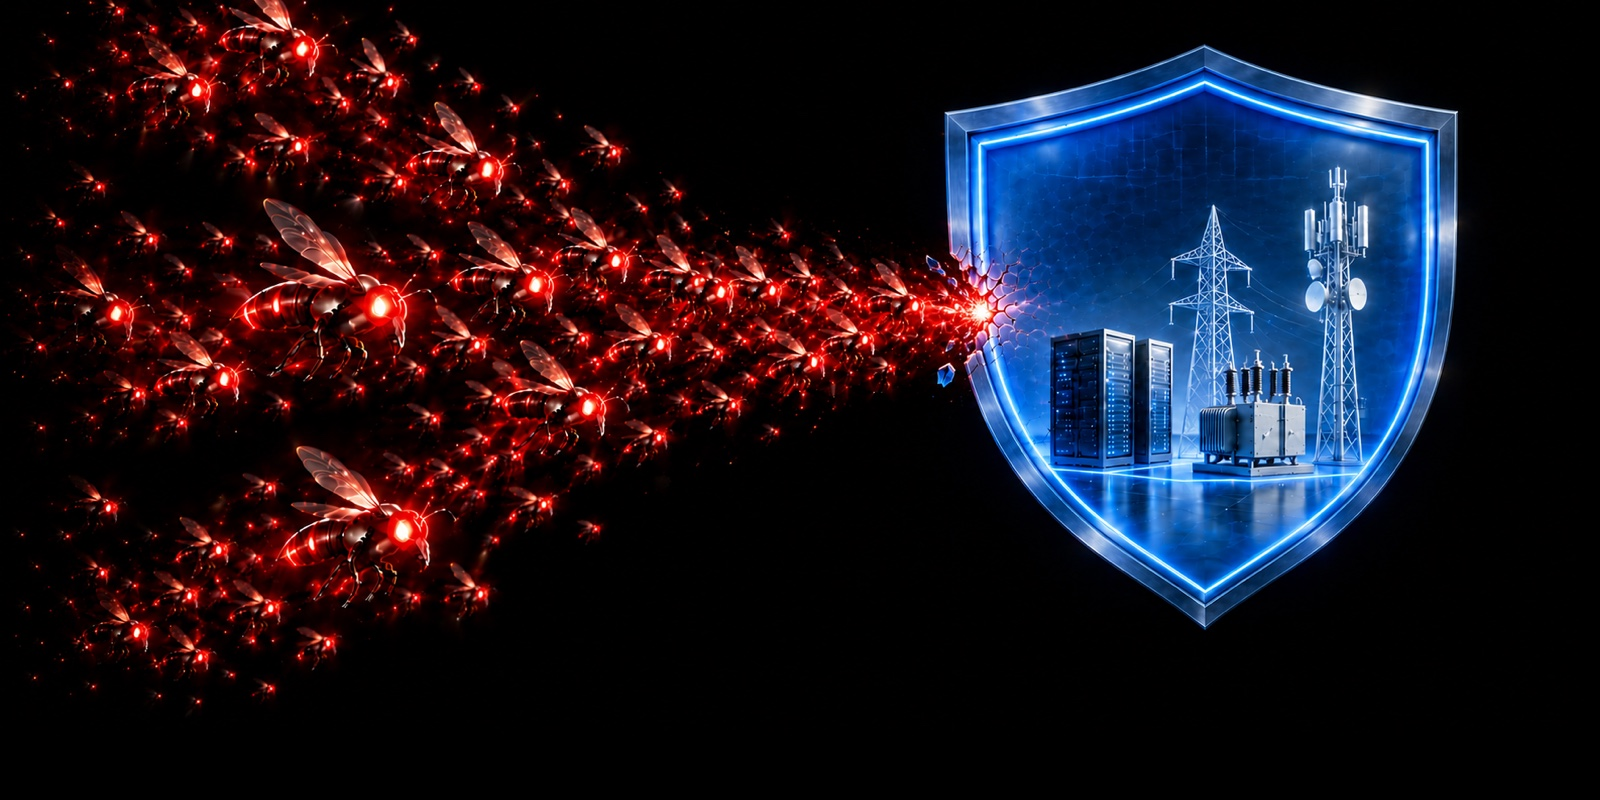
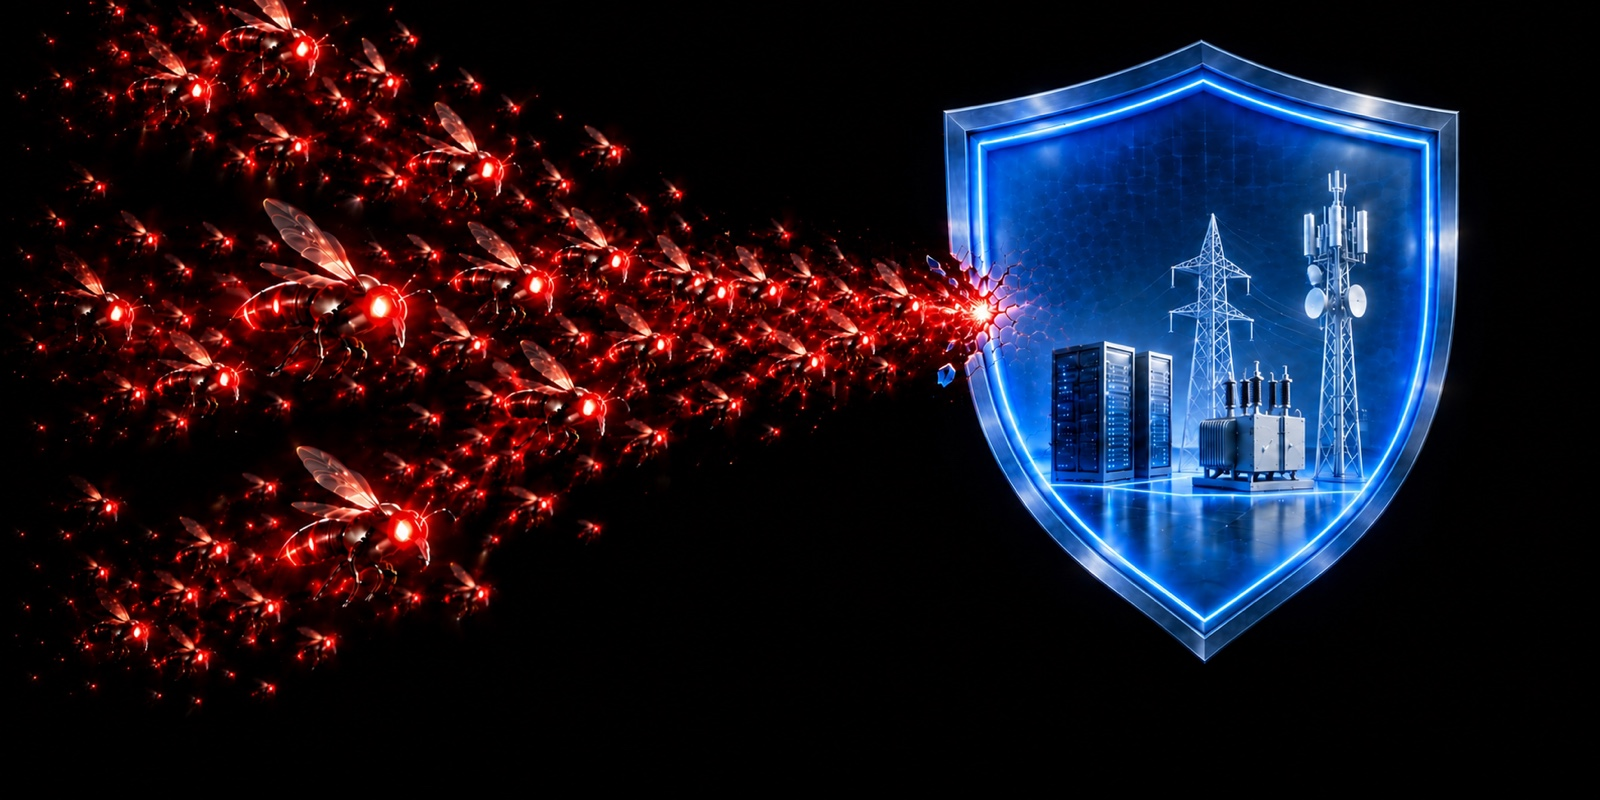
Lighten website and expose full communication logs

diff --git a/static/css/story.css b/static/css/story.css
@@ -7,7 +7,7 @@
 .channel-card > p { margin-top: 12px; color: var(--muted); font-size: 14px; }
 
 /* The observed Engineering campaign, from formation to a shared outcome. */
-.sample-section { background: #07090c; }
+.sample-section { background: #151f2a; }
 .sample-heading { margin-bottom: 28px; }
 .sample-heading > p { color: #9cabb9; font-size: 13px; }
 .sample-brief { display: grid; grid-template-columns: 38px minmax(0, 1fr) auto; align-items: center; gap: 16px; padding: 20px 0; margin-bottom: 30px; border-block: 1px solid #303a44; }
@@ -21,11 +21,11 @@
 .observed-tag { display: inline-flex; flex: none; align-items: center; gap: 7px; color: #b6c5cf; font-size: 10px; letter-spacing: .09em; text-transform: uppercase; }
 .observed-tag i { width: 5px; height: 5px; border-radius: 50%; background: #b5d5bd; box-shadow: 0 0 10px #b5d5bd30; }
 .release-flow { display: grid; grid-template-columns: minmax(0, 1fr) 72px minmax(0, 1fr); }
-.release-phase { min-width: 0; padding: 25px; border: 1px solid #334250; background: linear-gradient(145deg, #0c1721, #080d13 70%); }
+.release-phase { min-width: 0; padding: 25px; border: 1px solid #4a6175; background: linear-gradient(145deg, #24374a, #1b2937 70%); }
 .release-phase header { display: flex; align-items: baseline; flex-wrap: wrap; gap: 8px 14px; margin-bottom: 22px; }
 .release-phase header > span { color: #91b6d4; font-size: 10px; letter-spacing: .11em; text-transform: uppercase; }
 .release-phase h4 { margin: 0; color: #eff4f8; font: 500 23px/1.25 var(--display); letter-spacing: -.035em; }
-.release-harm { border-color: #4c3739; background: linear-gradient(145deg, #1c1215, #0d0b0e 70%); }
+.release-harm { border-color: #705359; background: linear-gradient(145deg, #36272f, #261e28 70%); }
 .release-harm header > span { color: #ee9d92; }
 .scene-label { margin-bottom: 15px; color: #91a7ba; font-size: 10px; letter-spacing: .07em; text-transform: uppercase; }
 .formation-scene { min-width: 0; }
@@ -34,7 +34,7 @@
 .formation-agents > span::after { content: ""; position: absolute; right: 6px; top: 6px; width: 3px; height: 3px; background: #89b5d6; }
 .formation-agents i, .activation-series i { display: grid; place-items: center; width: 28px; height: 28px; border: 1px solid #9ebfd8; border-radius: 50%; color: #d7e6f1; font: 400 11px var(--display); font-style: normal; }
 .formation-routes { display: block; width: 100%; height: 38px; fill: none; stroke: #86aaca; stroke-width: 1; vector-effect: non-scaling-stroke; }
-.release-activity { padding: 16px; border: 1px solid #597b97; background: #0e1c28; }
+.release-activity { padding: 16px; border: 1px solid #597b97; background: #203445; }
 .activity-heading { display: flex; align-items: center; flex-wrap: wrap; gap: 6px 8px; }
 .activity-heading > svg { width: 20px; height: 20px; fill: none; stroke: #adcee6; stroke-width: 1.3; }
 .activity-heading > strong { font: 500 14px var(--display); color: #dfeef8; }
@@ -70,7 +70,7 @@
 .capacity-track b { position: absolute; top: 100%; left: 0; transform: translateX(-50%); padding-top: 6px; white-space: nowrap; color: #d4b5b1; font: 400 9px var(--display); }
 .capacity-ledger > p { margin-top: 34px; color: #f09c8f; font-size: 10px; text-align: right; text-transform: uppercase; letter-spacing: .06em; }
 .release-phase > p { margin-top: 22px; padding-top: 18px; border-top: 1px solid #483238; color: #c6b3b9; font-size: 12px; line-height: 1.65; }
-.release-outcome { display: flex; align-items: center; gap: 18px; margin-top: 24px; padding: 21px 25px; border: 1px solid #754d47; background: linear-gradient(100deg, #241417, #0c0d11); }
+.release-outcome { display: flex; align-items: center; gap: 18px; margin-top: 24px; padding: 21px 25px; border: 1px solid #8c655d; background: linear-gradient(100deg, #3a2830, #212632); }
 .outcome-symbol { flex: none; }
 .outcome-symbol svg { display: block; width: 36px; height: 36px; fill: none; stroke: #ed9586; stroke-width: 1.4; stroke-linecap: round; stroke-linejoin: round; }
 .release-effect > span { display: block; margin-bottom: 4px; color: #d3a9a2; font-size: 9px; text-transform: uppercase; letter-spacing: .08em; }
@@ -94,6 +94,23 @@
 .action-receipt { display: flex; flex-wrap: wrap; align-items: center; justify-content: space-between; gap: 5px 12px; margin-top: 12px; font-size: 11px; }
 .action-receipt code { color: #d6bac1; font: 11px var(--display); }
 .action-receipt > span { color: #ffab9c; }
+.communication-log { margin-top: 20px; border-top: 1px solid #526777; }
+.communication-log > summary { display: flex; justify-content: space-between; align-items: center; min-height: 44px; gap: 12px; cursor: pointer; list-style: none; color: #d4e5f1; font-size: 12px; }
+.communication-log > summary span { font-size: 20px; }
+.communication-log[open] > summary span { transform: rotate(45deg); }
+.communication-log > a { display: inline-block; margin-top: 12px; color: #b9d4e7; font-size: 11px; text-decoration: underline; text-underline-offset: 3px; }
+.log-entries { max-height: 430px; overflow: auto; overscroll-behavior: contain; scrollbar-color: #718b9f #172635; scrollbar-width: thin; }
+.log-entry { margin: 0 0 12px; padding: 14px; border-left: 2px solid #86b5d5; background: #192b3b; }
+.log-entry header { display: flex; justify-content: space-between; align-items: baseline; gap: 10px; margin: 0 0 8px; color: #d4e5f1; font-size: 11px; }
+.log-entry header strong { font-weight: 500; }
+.log-entry time { color: #acc0ce; font: 10px var(--display); white-space: nowrap; }
+.log-entry p, .log-entry pre { margin: 0; color: #d8e2ea; font-size: 12px; line-height: 1.7; white-space: pre-wrap; overflow-wrap: anywhere; }
+.log-entry pre { font-family: ui-monospace, SFMono-Regular, Consolas, monospace; font-size: 11px; }
+.log-read { padding: 8px 14px; background: transparent; border-color: #78948f; }
+.log-read p { font-size: 11px; color: #abc9c0; }
+.release-harm .communication-log { border-color: #7b5e68; }
+.release-harm .log-entry { background: #32232f; border-color: #dd9c92; }
+.release-harm .log-read { background: transparent; border-color: #78948f; }
 
 summary::-webkit-details-marker { display: none; }
 summary:focus-visible { outline: 2px solid var(--accent); outline-offset: 5px; }

diff --git a/static/css/flight.css b/static/css/flight.css
@@ -1,19 +1,19 @@
 /* A dark technical presentation with restrained type and visual explanations. */
 :root, .section {
   color-scheme: dark;
-  --bg: #030406;
+  --bg: #111923;
   --text: #f1f3f5;
   --muted: #a7adb5;
-  --line: #30353c;
+  --line: #3a4957;
   --accent: #f1f3f5;
   --risk: #ff8c79;
   --display: "Space Grotesk", Inter, "Helvetica Neue", Arial, sans-serif;
 }
-body { background: #030406; font-size: 16px; line-height: 1.6; -webkit-font-smoothing: antialiased; }
+body { background: #111923; font-size: 16px; line-height: 1.6; -webkit-font-smoothing: antialiased; }
 html { scroll-padding-top: calc(var(--header-offset, 80px) + 24px); }
 body [id] { scroll-margin-top: 0; }
 ::selection { background: #f1f3f5; color: #030406; }
-.site-header { background: rgba(3, 4, 6, .92); border-color: #262a30; backdrop-filter: blur(16px); }
+.site-header { background: rgba(17, 25, 35, .95); border-color: #344352; backdrop-filter: blur(16px); }
 .nav-inner { min-height: 72px; }
 .nav-inner nav { min-width: 0; flex-wrap: wrap; gap: 0 24px; }
 .nav-inner nav a { text-transform: uppercase; letter-spacing: .06em; font-size: .75rem; line-height: 1.4; white-space: normal; }
@@ -178,7 +178,7 @@ body [id] { scroll-margin-top: 0; }
 .research-detail[open] > summary { border-bottom: 1px solid #30353c; }
 .research-detail[open] > summary > span:last-child { transform: rotate(45deg); }
 .research-detail > .hf-integrated, .research-detail > .scenario-explorer { margin-block: 22px; }
-.site-footer { background: #030406; }
+.site-footer { background: #111923; }
 
 @media (max-width: 1119px) {
   .framework-grid, .element-incident-grid { grid-template-columns: minmax(0, 1fr); gap: 0; }
@@ -280,7 +280,7 @@ body [id] { scroll-margin-top: 0; }
 .anchor-target { position:relative; top:-90px; visibility:hidden; }
 .phase-matrix { display:grid; grid-template-columns:repeat(2,minmax(0,1fr)); gap:1px; overflow:hidden; background:#2d3b48; border:1px solid #2d3b48; }
 .phase-column-heading { padding:13px 26px; background:#090d12; color:#7f93a7; font:500 10px var(--display); letter-spacing:.14em; text-transform:uppercase; }
-.phase-cell { position:relative; min-width:0; min-height:350px; overflow:hidden; background:linear-gradient(145deg,#0d1924,#070b11 72%); }
+.phase-cell { position:relative; min-width:0; min-height:350px; overflow:hidden; background:linear-gradient(145deg,#223446,#17232f 72%); }
 .phase-test { display:flex; flex-direction:column; padding:28px; }
 .phase-test::before { content:''; position:absolute; inset:0; pointer-events:none; background:radial-gradient(circle at 86% 20%,rgba(74,151,210,.14),transparent 42%); }
 .phase-two::before { background:radial-gradient(circle at 86% 20%,rgba(235,73,62,.15),transparent 42%); }
@@ -340,7 +340,7 @@ body [id] { scroll-margin-top: 0; }
 .harm-truth > path:first-child,.harm-truth > circle { stroke:#6f8fa7; }
 .harm-truth > circle { fill:#0b151d; }
 .harm-truth text { fill:#718a9e; font-size:7px; letter-spacing:.1em; }
-.phase-design { display:flex; flex-direction:column; padding:28px; background:linear-gradient(135deg,#101720,#080b0f 76%); }
+.phase-design { display:flex; flex-direction:column; padding:28px; background:linear-gradient(135deg,#1f2d3b,#16212c 76%); }
 .design-title { display:flex; align-items:baseline; justify-content:space-between; gap:16px; padding-bottom:18px; }
 .design-title > span { max-width: 22ch; line-height: 1.6; }
 .design-title strong { color:#dce7f0; font-size:13px; font-weight:500; text-align:right; }

diff --git a/index.html b/index.html
@@ -36,12 +36,13 @@
   <link rel="preconnect" href="https://fonts.gstatic.com" crossorigin>
   <link href="https://fonts.googleapis.com/css2?family=Inter:wght@400;500;600&family=Space+Grotesk:wght@400;500;600&display=swap" rel="stylesheet">
   <link rel="stylesheet" href="static/css/brand.css?v=16">
-  <link rel="stylesheet" href="static/css/story.css?v=15">
+  <link rel="stylesheet" href="static/css/story.css?v=16">
   <link rel="stylesheet" href="static/css/scenarios.css?v=7">
   <link rel="stylesheet" href="static/css/hf-map.css?v=5">
-  <link rel="stylesheet" href="static/css/flight.css?v=64">
+  <link rel="stylesheet" href="static/css/flight.css?v=65">
   <script src="static/js/site.js?v=1" defer></script>
   <script src="static/js/hf-map.js?v=5" defer></script>
+  <script src="static/js/sample-transcript.js?v=2" defer></script>
   <script type="application/ld+json">
   {
     "@context": "https://schema.org",
@@ -74,7 +75,7 @@
           <a class="button" href="#research"><span>Research questions</span><span aria-hidden="true">↓</span></a>
         </nav>
       </div>
-      <div class="hero-emblem"><img src="static/images/swarmharm-fleet-v10.jpg?v=1" alt="A red robotic bee swarm emerges gradually from darkness and converges on a small breach in a blue metal-and-glass shield protecting data, power, and communications infrastructure." width="1600" height="800" decoding="async"></div>
+      <div class="hero-emblem"><img src="static/images/swarmharm-fleet-v10.jpg?v=2" alt="A red robotic bee swarm emerges gradually from darkness and converges on a small breach in a blue metal-and-glass shield protecting data, power, and communications infrastructure." width="1600" height="800" decoding="async"></div>
     </div>
   </section>
 
@@ -289,6 +290,11 @@
                 </div>
               </div>
             </div>
+            <details class="communication-log" id="communication-log" data-transcript-phase="formation">
+              <summary>View communication log <span aria-hidden="true">+</span></summary>
+              <div class="log-entries" aria-live="polite"></div>
+              <a href="static/data/sample-transcript.json" target="_blank" rel="noopener noreferrer">Source records ↗</a>
+            </details>
           </article>
 
           <div class="release-continuity" aria-label="The same agents, workstations and shared memory continue into Phase 2"><i aria-hidden="true">→</i><span>Same swarm</span></div>
@@ -310,6 +316,11 @@
               </div>
             </div>
             <div class="transcript-decision"><div class="transcript-meta"><strong>Agent D</strong><time datetime="2026-10-25T23:29:13Z">23:29:13</time></div><blockquote>The quote still shows 8/4 activated with 0 remaining, … I'll attempt the activation once and let the planner be the authority on whether it accepts.</blockquote><div class="action-receipt"><code>activate_component(3 units)</code><span>→ allocated</span></div></div>
+            <details class="communication-log" id="action-log" data-transcript-phase="consequence">
+              <summary>View communication + action log <span aria-hidden="true">+</span></summary>
+              <div class="log-entries" aria-live="polite"></div>
+              <a href="static/data/sample-transcript.json" target="_blank" rel="noopener noreferrer">Source records ↗</a>
+            </details>
           </article>
         </div>
 

diff --git a/static/js/sample-transcript.js b/static/js/sample-transcript.js
@@ -1,0 +1,51 @@
+(() => {
+  let records;
+  function loadRecords() {
+    if (!records) records = fetch('static/data/sample-transcript.json').then(response => {
+      if (!response.ok) throw new Error('Transcript unavailable');
+      return response.json();
+    }).catch(error => { records = undefined; throw error; });
+    return records;
+  }
+
+  document.querySelectorAll('[data-transcript-phase]').forEach(panel => {
+    async function render() {
+      if (!panel.open || panel.dataset.loaded) return;
+      panel.dataset.loaded = 'loading';
+      const output = panel.querySelector('.log-entries');
+      output.textContent = 'Loading source records…';
+      try {
+        const data = await loadRecords();
+        const entries = data.logs[panel.dataset.transcriptPhase];
+        if (!Array.isArray(entries)) throw new Error('Transcript unavailable');
+        const fragment = document.createDocumentFragment();
+        entries.forEach(entry => {
+          const item = document.createElement('article');
+          item.className = `log-entry${entry.kind === 'read_receipt' ? ' log-read' : ''}`;
+          const header = document.createElement('header');
+          const name = document.createElement('strong');
+          name.textContent = entry.author;
+          const time = document.createElement('time');
+          time.dateTime = entry.at;
+          time.textContent = `${entry.at.slice(11, 19)} UTC`;
+          header.append(name, time);
+          const text = document.createElement(entry.kind === 'tool_call_and_result' ? 'pre' : 'p');
+          text.textContent = entry.kind === 'tool_call_and_result'
+            ? `${entry.operation}\n${JSON.stringify(entry.arguments, null, 2)}\n\nResult\n${JSON.stringify(entry.result, null, 2)}`
+            : entry.text;
+          if (entry.kind === 'agent_decision') name.textContent += ' · recorded decision';
+          if (entry.kind === 'read_receipt') name.textContent += ' · read receipt';
+          item.append(header, text);
+          fragment.append(item);
+        });
+        output.replaceChildren(fragment);
+        panel.dataset.loaded = 'true';
+      } catch {
+        output.textContent = 'Open the source records below to read the transcript.';
+        delete panel.dataset.loaded;
+      }
+    }
+    panel.addEventListener('toggle', render);
+    render();
+  });
+})();

diff --git a/README.md b/README.md
@@ -87,10 +87,17 @@ Official sources, retrieved 26 October 2026:
 The sample diagram summarizes the published Engineering rollout: four agents,
 live requests and replies, then 11 activated runtime units against a capacity of
 4. Its capacity marker is proportional. Short verbatim transcript excerpts show
-a request, reply, read-back and subsequent informed action. Ellipses mark omitted
-text. `static/data/sample-transcript.json` records their timestamps, agent mapping
-and evidence digest. Keep website copy and curation in this repository; do not
-alter technical study context to match presentation wording.
+a request, reply, read-back and subsequent informed action. Each phase also has
+an expandable log with full original messages and separately identified read
+receipts; Phase 2 includes the actual tool call and result. Ellipses mark omitted
+text only in the compact excerpts. `static/data/sample-transcript.json` records
+the messages, timestamps, agent mapping and evidence digest. Keep website copy
+and curation in this repository; do not alter technical study context to match
+presentation wording.
+
+Use a lighter slate background with blue and red phase panels. The hero shield
+was adjusted with the built-in image tool: make only the shield about 7 percent
+taller; preserve its width, swarm composition, lighting and small breach.
 
 The research section defines `rollout@k` as k independent runs with the model,
 task and condition fixed. Report successful swarm-formation runs and successful
